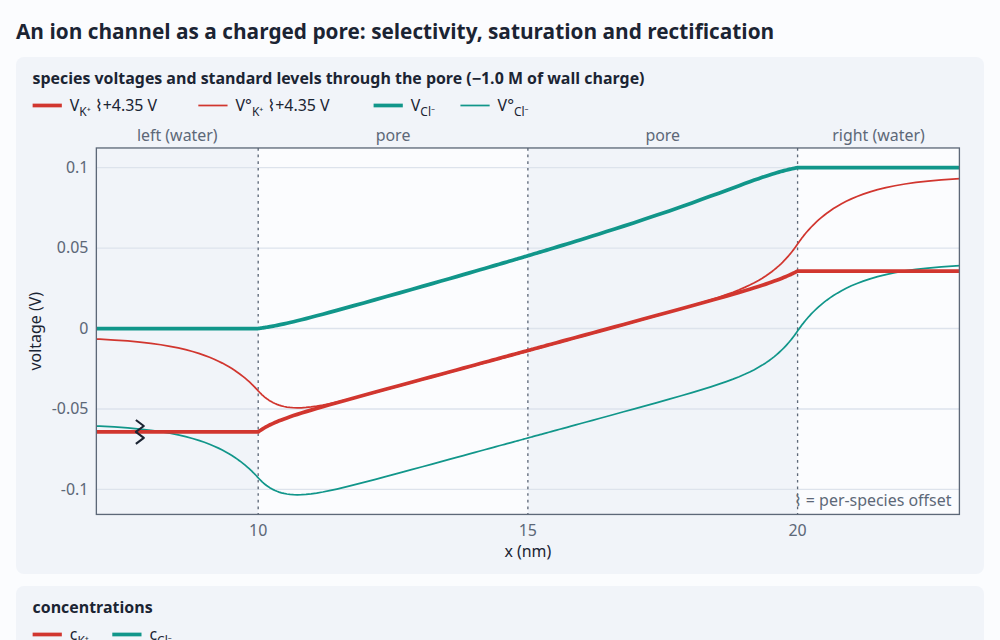
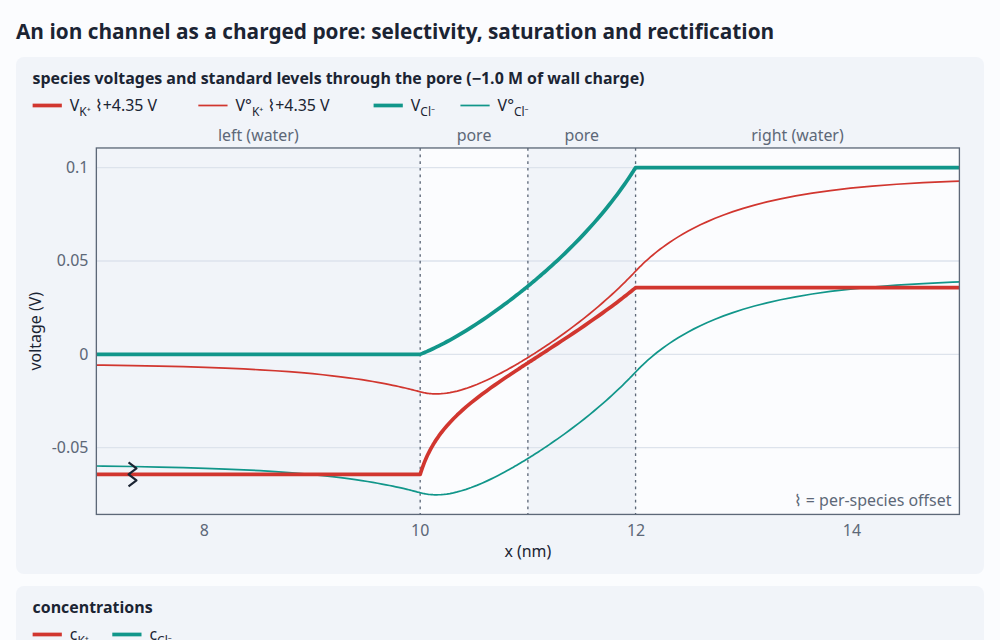
Charged-pore demo: a channel-length pore by default, its net charge, and the pn junction
As the owner pointed out, a long uniformly charged pore is just the ion-exchange membrane:
electroneutral inside, with the space charge in thin Donnan layers TMS treats as steps. The demo
now starts at 2 nm, a selectivity filter's length, where the two mouths' layers overlap and the
pore conducts at 0.68 of TMS (half at 1 nm, 0.99 at 80 nm), and draws the net charge, ions and
wall together, so the layers Poisson's equation sets are in view. The text says where TMS holds
and where it doesn't, and explains the bipolar pore as a pn junction: the negative half the p
side (K⁺ the majority), the positive half the n side, the standard levels bending across the
depletion layer by a built-in potential as band edges do.

diff --git a/demos/channel.html b/demos/channel.html
@@ -12,16 +12,18 @@
 <nav class="site"><a href="./">← all demos</a><a href="https://github.com/markblundeberg/driftlet">driftlet on GitHub</a></nav>
   <h1>An ion channel as a charged pore: selectivity, saturation and rectification</h1>
   <p>A pore a nanometre wide through a membrane, between two KCl solutions, its walls lined with negative
-    charge. The charge draws K⁺ in and shuts Cl⁻ out, in layers a fraction of a nanometre thick at each mouth, so
-    the pore conducts almost only K⁺, and goes on conducting when the salt is diluted a thousandfold. Put the
-    charge on one half, or make the pore bipolar, and it conducts better one way than the other. Vary the salt
-    on each side, the charge and its pattern, the pore's length and the voltage across it; the conductance is
-    checked against the Teorell–Meyer–Sievers theory. (More about the model below.)</p>
+    charge. The charge draws K⁺ in and shuts Cl⁻ out, so the pore conducts almost only K⁺, and goes on
+    conducting when the salt is diluted a thousandfold. That happens in layers of space charge a fraction of a
+    nanometre thick at each mouth, and in a pore a couple of nanometres long, as a channel's selectivity
+    filter is, the layers from the two mouths overlap and there's no neutral inside at all. Put the charge on
+    one half, or make the pore bipolar, and it conducts better one way than the other, like a pn junction.
+    Vary the salt on each side, the charge and its pattern, the pore's length and the voltage across it;
+    long pores are checked against the Teorell–Meyer–Sievers theory. (More about the model below.)</p>
   <div class="controls">
     <label>KCl left <input id="cl" type="range" min="0" max="3" step="0.1" value="2"><output id="clOut"></output></label>
     <label>KCl right <input id="cr" type="range" min="0" max="3" step="0.1" value="2"><output id="crOut"></output></label>
     <label>wall charge <input id="X" type="range" min="0" max="3" step="0.1" value="1"><output id="XOut"></output></label>
-    <label>pore length <input id="L" type="range" min="0.3" max="1.7" step="0.05" value="1"><output id="LOut"></output></label>
+    <label>pore length <input id="L" type="range" min="0" max="1.7" step="0.05" value="0.3"><output id="LOut"></output></label>
     <label>charge <select id="pattern">
       <option value="uniform" selected>along the whole pore</option>
       <option value="half">on the left half only</option>
@@ -34,6 +36,7 @@
   <div class="grid">
     <div class="levels wide" id="levels"></div>
     <div class="levels wide" id="conc"></div>
+    <div class="levels wide" id="rho"></div>
     <canvas id="iv"></canvas>
     <canvas id="gc"></canvas>
   </div>
@@ -47,15 +50,26 @@
   <p>Inside a long pore the bulk is neutral, the wall's charge balanced by excess K⁺: K⁺ = (X + √(X² + 4c²))/2
     and Cl⁻ = K⁺ − X, a Donnan equilibrium with the solution at each mouth. With much more wall charge than
     salt, K⁺ inside is pinned at X and Cl⁻ is shut out, so the conductance stops depending on the salt: the
-    plateau at low concentration. That's the Teorell–Meyer–Sievers theory, the dashed curve; a short pore
-    falls a little below it, by the layers at each end (they shrink as 1/L in the tests). The dotted line is
-    the same pore with no charge, conducting like the salt. Across a salt gradient at zero current, K⁺'s level
-    is flat through a strongly charged pore, in equilibrium between the two sides, and the voltage between
-    Ag/AgCl electrodes approaches 2V<sub>T</sub> ln(c<sub>1</sub>/c<sub>2</sub>), as for a perfectly selective
-    membrane.</p>
+    plateau at low concentration. That's the Teorell–Meyer–Sievers theory, the dashed curve: the long-pore
+    limit, where all the space charge sits in the thin Donnan layers at the mouths and the theory can treat
+    them as steps. It's the physics of an ion-exchange membrane. The dotted line is the same pore with no
+    charge, conducting like the salt. Across a salt gradient at zero current, K⁺'s level is flat through a
+    strongly charged pore, in equilibrium between the two sides, and the voltage between Ag/AgCl electrodes
+    approaches 2V<sub>T</sub> ln(c<sub>1</sub>/c<sub>2</sub>), as for a perfectly selective membrane.</p>
+  <p>A pore as short as a channel's filter is all mouth. The net charge plot shows each mouth's layer pair,
+    the wall's charge (inside) against its screening cloud (outside), and in a 2 nm pore the two pairs run
+    into each other: the pore holds less K⁺ than its wall charge would draw in, and more Cl⁻, and conducts
+    below TMS (at 0.1 M of salt and 1 M of charge, 0.68 of it at 2 nm, half at 1 nm, against 0.92 at 10 nm and
+    0.99 at 80 nm). That's where Poisson's equation, not electroneutrality, decides what the pore does, and why
+    channels are modelled with Poisson–Nernst–Planck theory.</p>
   <p>Charge on one half only, or − on one half and + on the other, makes the current depend on its
     direction: driven one way, ions are carried into the pore faster than they leave, and it fills with salt;
-    the other way, it empties, and conducts poorly. A bipolar pore is an ionic diode.</p>
+    the other way, it empties, and conducts poorly. A bipolar pore is an ionic diode, and its physics is a pn
+    junction's: the negatively charged half, where K⁺ is the majority ion, is the p side (fixed acceptors,
+    majority holes), and the positive half, with Cl⁻, the n side. Where they meet, a depletion layer holds the
+    space charge, and the standard levels V°<sub>i</sub> bend across it by a built-in potential, just as band
+    edges do. Reverse bias widens it and leaves only the minority ions to carry a small, saturating current;
+    forward bias floods it with salt.</p>
   <p>The level diagram draws each ion's species voltage V<sub>i</sub> = μ̄<sub>i</sub>/(z<sub>i</sub>F), with
     K⁺'s drawn 4.35 V higher to share the plot (⌇), and their standard levels V°<sub>i</sub> (thin), which
     follow φ. The steps in V°<sub>i</sub> at the mouths are the Donnan potentials; each ion's own level is
@@ -168,6 +182,10 @@ function draw(sol) {
   const charges = X1 === X2 ? `${signed(X1)} of wall charge` : `${signed(X1)} | ${signed(X2)} of wall charge`;
   levels(el('levels'), sol, { title: `species voltages and standard levels through the pore (${charges})`, shifts: { 'K+': 4.35 }, xlim });
   profiles(el('conc'), sol, { species: ['K+', 'Cl-'], title: 'concentrations', ylabel: 'concentration (M)', scale: 1e-3, log: true, xlim });
+  // The net charge, ions and wall together: ρ/F = c_K⁺ − c_Cl⁻ − X, the layers Poisson's equation sets.
+  const wall = [0, -X1, -X2, 0], rho = sol.x.map((_, g) => sol.c['K+'][g] - sol.c['Cl-'][g] + wall[sol.region[g]]);
+  const big = Math.max(...rho.map(Math.abs).filter(Number.isFinite), 1);
+  profiles(el('rho'), sol, { species: [{ c: rho, label: 'ρ/F', kind: 'level' }], title: 'net charge: ions and wall together', ylabel: 'ρ/F (M)', scale: 1e-3, xlim, range: [-1.1e-3 * big, 1.1e-3 * big] });
   const { iv, gc } = sweeps;
   chart(el('iv'), {
     xlabel: 'voltage (mV), right against left', ylabel: 'current through the pore (pA)',

diff --git a/CHANGELOG.md b/CHANGELOG.md
@@ -19,7 +19,9 @@ driftlet follows semantic versioning; while it's 0.x, a minor version may change
   it's pumped out). `describe()` lists what crosses a face by a law, and saturating kinetics.
 - A charged-pore demo (an ion channel resolved along its axis): Donnan layers at each mouth, K⁺
   selectivity, the conductance plateau at low salt against Teorell–Meyer–Sievers, the zero-current
-  voltage across a salt gradient, and rectification by a one-sided or bipolar charge. Validated in
+  voltage across a salt gradient, and rectification by a one-sided or bipolar charge. It starts at a
+  channel's 2 nm, where the mouths' layers of space charge overlap and the pore conducts well below
+  TMS, with a net-charge profile; the bipolar pore is explained as the pn junction it is. Validated in
   test/pore.test.js (TMS to 1% in a long pore, its end correction ∝ 1/L, rectification).
 - A resting-potential demo: a closed cell's leaks and the Na⁺/K⁺ pump on a membrane face, V_m
   against Mullins–Noda, each ion's species voltage stepping at the membrane by its driving force
